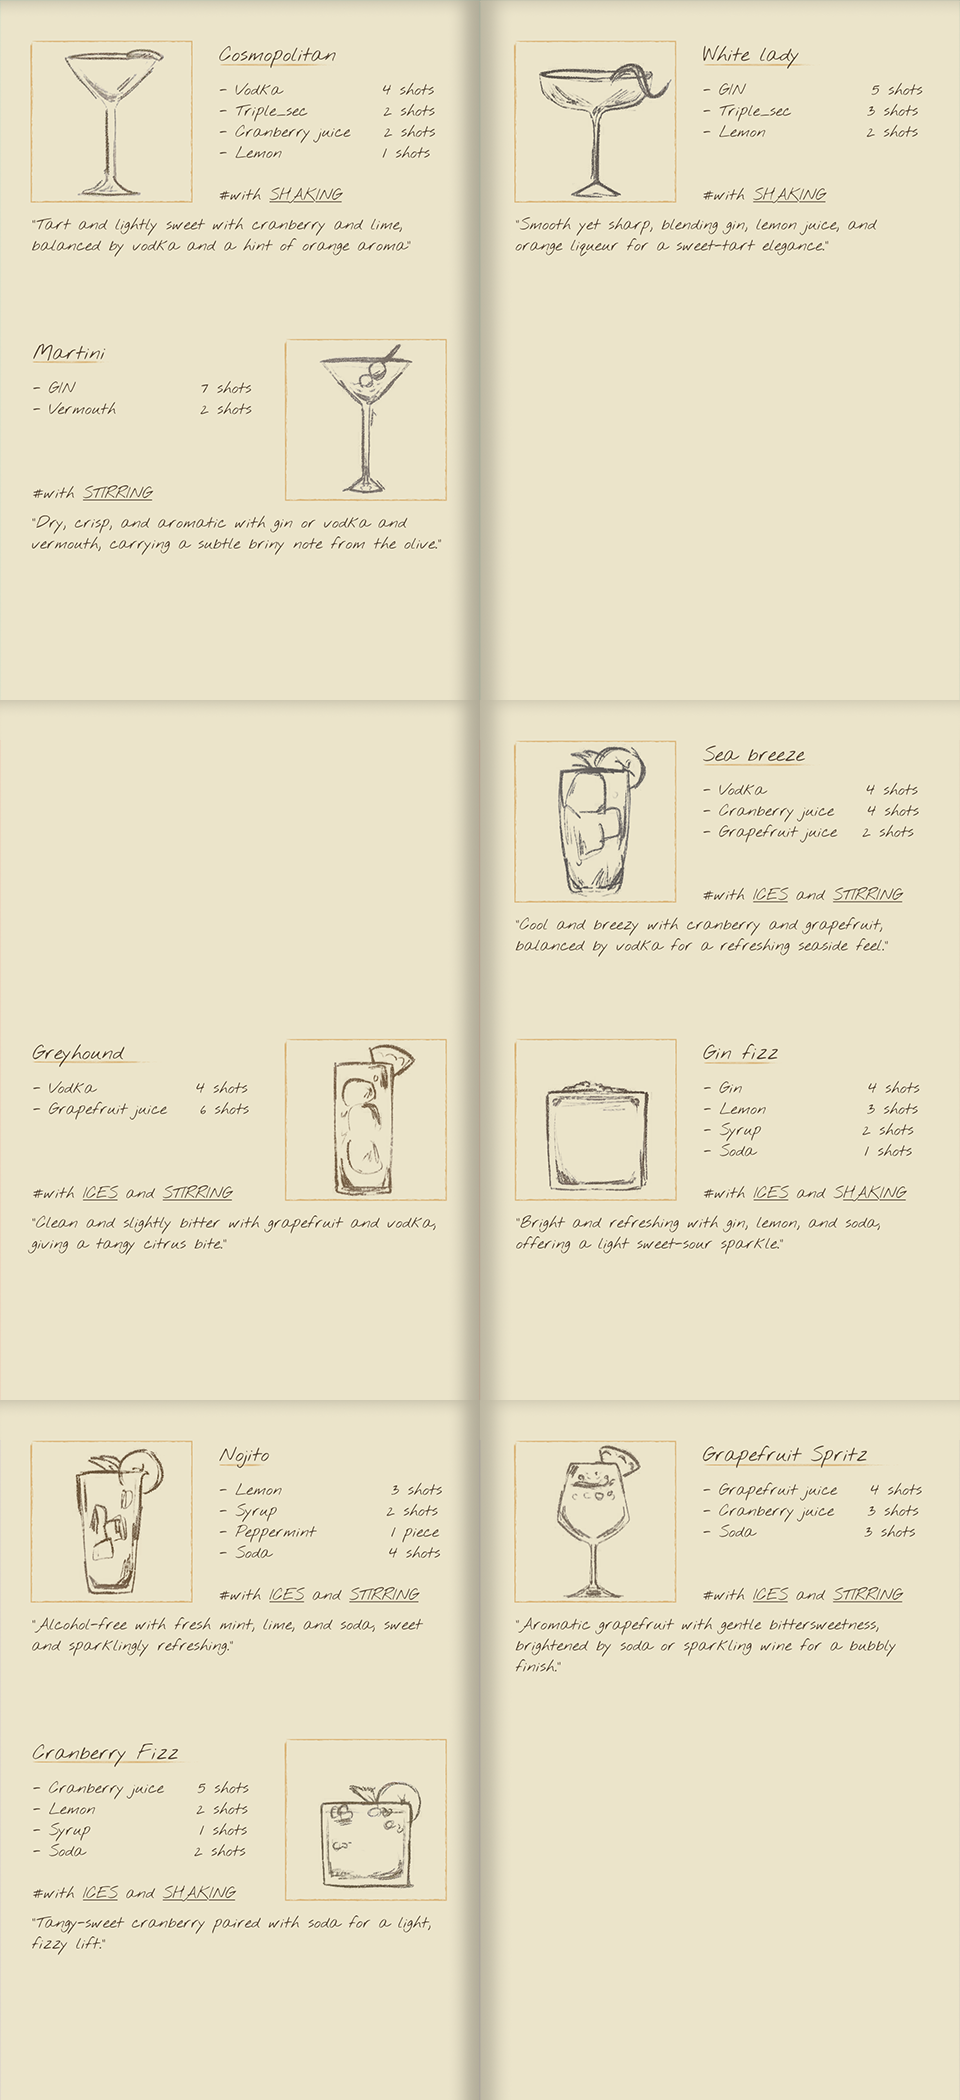
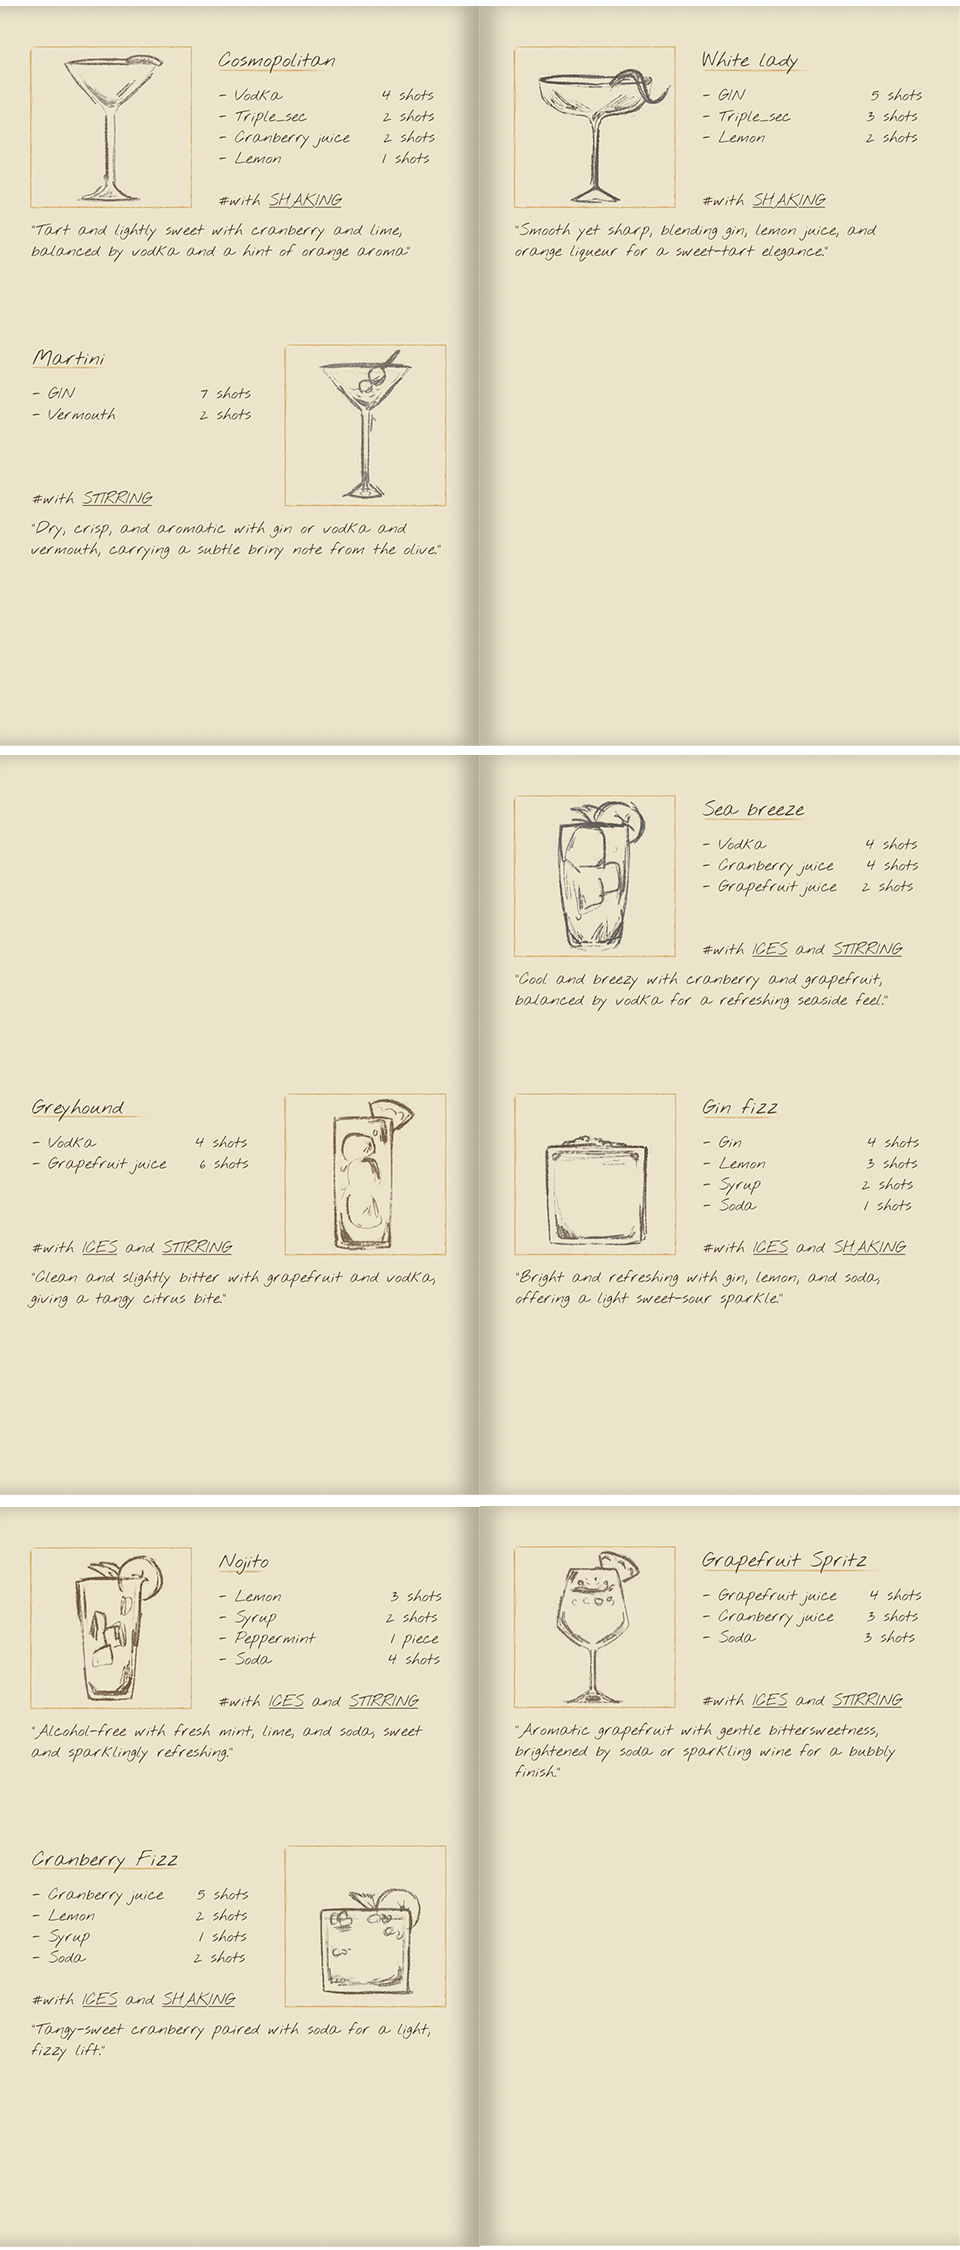
update UI

diff --git a/CocktailProject/Scenes/GamePlay.cs b/CocktailProject/Scenes/GamePlay.cs
@@ -810,7 +810,7 @@ namespace CocktailProject.Scenes
 
             MinGame_Stirring_Atlas = TextureAtlas.FromFile(Content, "images/MiniGame/QTE_Stir_Define.xml");
             Stirring_Anim = MinGame_Stirring_Atlas.CreateAnimatedSprite("Stirring_Animation");
-            Img_MiniGame_Stirring = new Image(MinGame_Stirring_Atlas.Texture, new Vector2(800, 480), anchor: Anchor.TopCenter);
+            Img_MiniGame_Stirring = new Image(MinGame_Stirring_Atlas.Texture, new Vector2(800, 600), anchor: Anchor.TopCenter);
             Img_MiniGame_Stirring.SourceRectangle = Stirring_Anim.GetRectangleCurrentFrame();
             P_Minigame_Stirring.AddChild(Img_MiniGame_Stirring);
 
@@ -1346,7 +1346,7 @@ namespace CocktailProject.Scenes
                     break;
                 case Enum_PanelState.Pos1:
                     SlidePanel(P_ArtAfterServe, 480, 20, Enum_SlideDirection.Up);
-                    break;
+                    break; 
                 case Enum_PanelState.Pos2:
                     if (SlidePanel(P_ArtAfterServe, -800, 20, Enum_SlideDirection.Left))
                         stateArtAfterServePanel = Enum_PanelState.InitPosWarp;
@@ -1919,47 +1919,56 @@ namespace CocktailProject.Scenes
             P_BGBookRecipes = new Panel(new Vector2(1920, 1080), PanelSkin.Default, Anchor.Center);
             P_BGBookRecipes.FillColor = Color.Black * 0.75f;
 
-            Img_BookRecipes = new Image(T_BookRecipes, new Vector2(1033, 755), ImageDrawMode.Stretch, Anchor.TopLeft);
+            Img_BookRecipes = new Image(T_BookRecipes, new Vector2(1100, 750), ImageDrawMode.Stretch, Anchor.TopLeft);
             Img_BookRecipes.Offset = new Vector2(66, 63);
 
             Img_LeftPage = new Image(Recipes_Atlas.Texture, new Vector2(480, 700), ImageDrawMode.Stretch, Anchor.TopLeft);
             Img_LeftPage.SourceRectangle = Recipes_Atlas.GetRegion("Recipe_01_L").SourceRectangle;
-            Img_LeftPage.Offset = new Vector2(11, 24);
+            Img_LeftPage.Offset = new Vector2(25, 0);
 
             Img_RightPage = new Image(Recipes_Atlas.Texture, new Vector2(480, 700), ImageDrawMode.Stretch, Anchor.TopLeft);
             Img_RightPage.SourceRectangle = Recipes_Atlas.GetRegion("Recipe_01_R").SourceRectangle;
-            Img_RightPage.Offset = new Vector2(491, 24);
+            Img_RightPage.Offset = new Vector2(505, 0);
 
-            BTN_PreviousPage = new Button("<", ButtonSkin.Default, Anchor.BottomLeft, new Vector2(50, 50));
+            BTN_PreviousPage = new Button("", ButtonSkin.Default, Anchor.BottomLeft, new Vector2(160/2, 80/2));
             BTN_PreviousPage.OnClick += (Entity e) =>
             {
                 ChangePage(Enum_Page.PreviousPage);
                 UpdatePageView();
                 Core.Audio.PlaySoundEffect(SFX_Book_Turnpage);
             };
+            BTN_PreviousPage.Offset = new Vector2(-20, 0);
+            Texture2D T_BTN_PreviousPage = Content.Load<Texture2D>("images/UI/RecipeBook/Recipe_Button_Left");
+            BTN_PreviousPage.SetCustomSkin(T_BTN_PreviousPage, T_BTN_PreviousPage, T_BTN_PreviousPage);
 
-            BTN_NextPage = new Button(">", ButtonSkin.Default, Anchor.BottomRight, new Vector2(50, 50));
+            BTN_NextPage = new Button("", ButtonSkin.Default, Anchor.BottomRight, new Vector2(160/2, 80/2));
             BTN_NextPage.OnClick += (Entity e) =>
             {
                 ChangePage(Enum_Page.NextPage);
                 UpdatePageView();
                 Core.Audio.PlaySoundEffect(SFX_Book_Turnpage);
             };
+            BTN_NextPage.Offset = new Vector2(20, 0);
+            Texture2D T_BTN_NextPage = Content.Load<Texture2D>("images/UI/RecipeBook/Recipe_Button_Right");
+            BTN_NextPage.SetCustomSkin(T_BTN_NextPage, T_BTN_NextPage, T_BTN_NextPage);
 
-            Button BTN_CloseBookRecipes = new Button("X", ButtonSkin.Default, Anchor.TopRight, new Vector2(50, 50));
+
+            Button BTN_CloseBookRecipes = new Button("", ButtonSkin.Default, Anchor.TopRight, new Vector2(80/2, 120/2));
             BTN_CloseBookRecipes.OnClick += (Entity e) =>
             {
                 ToggleBookRecipes();
                 Core.Audio.PlaySoundEffect(SFX_Book_Open_Close);
             };
+            BTN_CloseBookRecipes.Offset = new Vector2(80, -40);
+            Texture2D T_BTN_CloseBookRecipes = Content.Load<Texture2D>("images/UI/RecipeBook/Recipe_Button_Close");
+            BTN_CloseBookRecipes.SetCustomSkin(T_BTN_CloseBookRecipes, T_BTN_CloseBookRecipes, T_BTN_CloseBookRecipes);
 
             Img_BookRecipes.AddChild(Img_LeftPage);
             Img_BookRecipes.AddChild(Img_RightPage);
             Img_BookRecipes.AddChild(BTN_PreviousPage);
             Img_BookRecipes.AddChild(BTN_NextPage);
             Img_BookRecipes.AddChild(BTN_CloseBookRecipes);
-            //UserInterface.Active.AddEntity(Img_BookRecipes);
-            //P_BGBookRecipes.AddChild(Img_BookRecipes);
+
 
             EnableBookRecipes(false);
 
